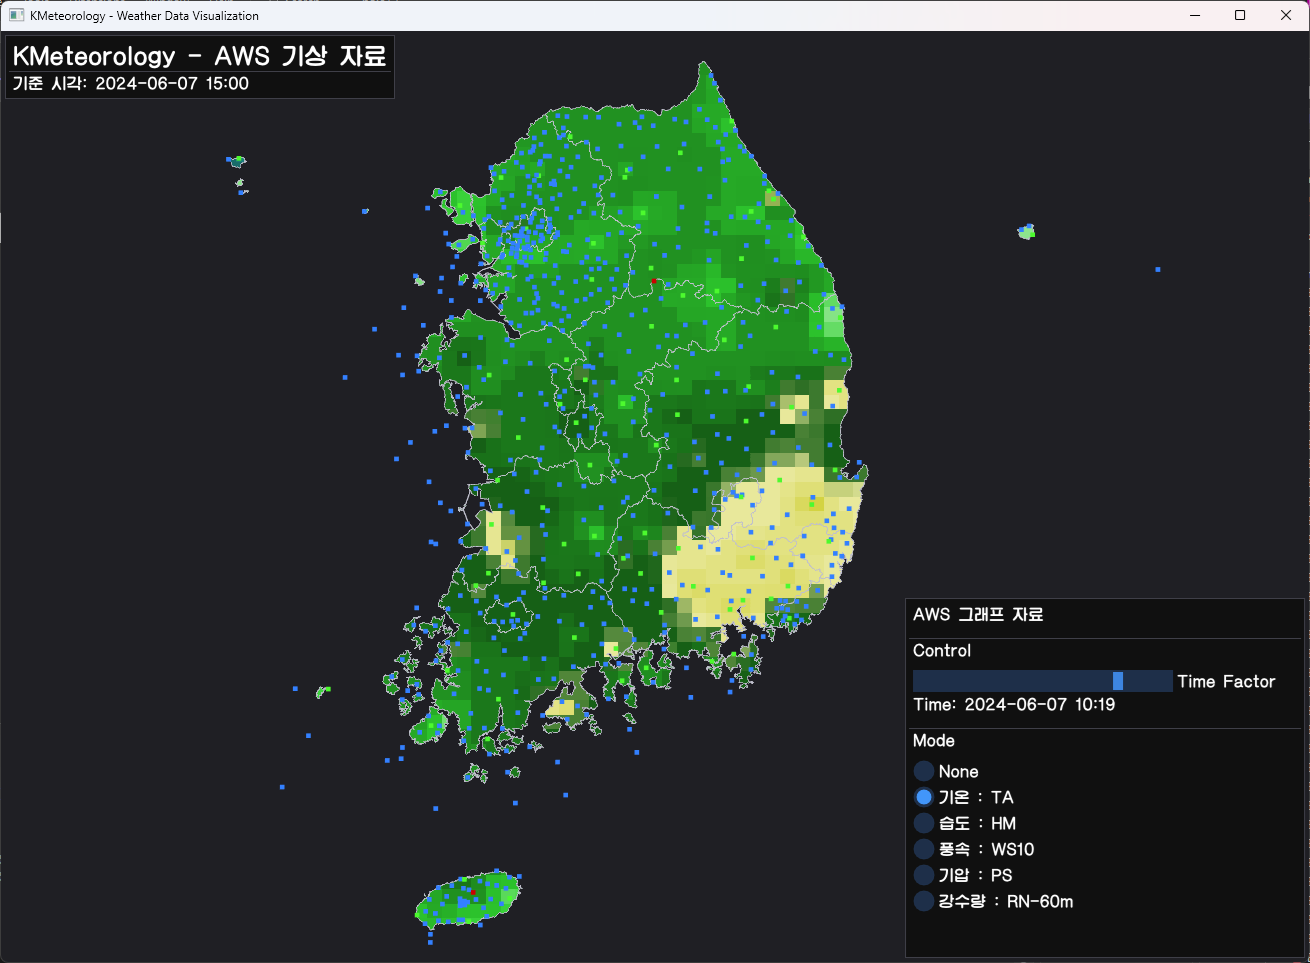
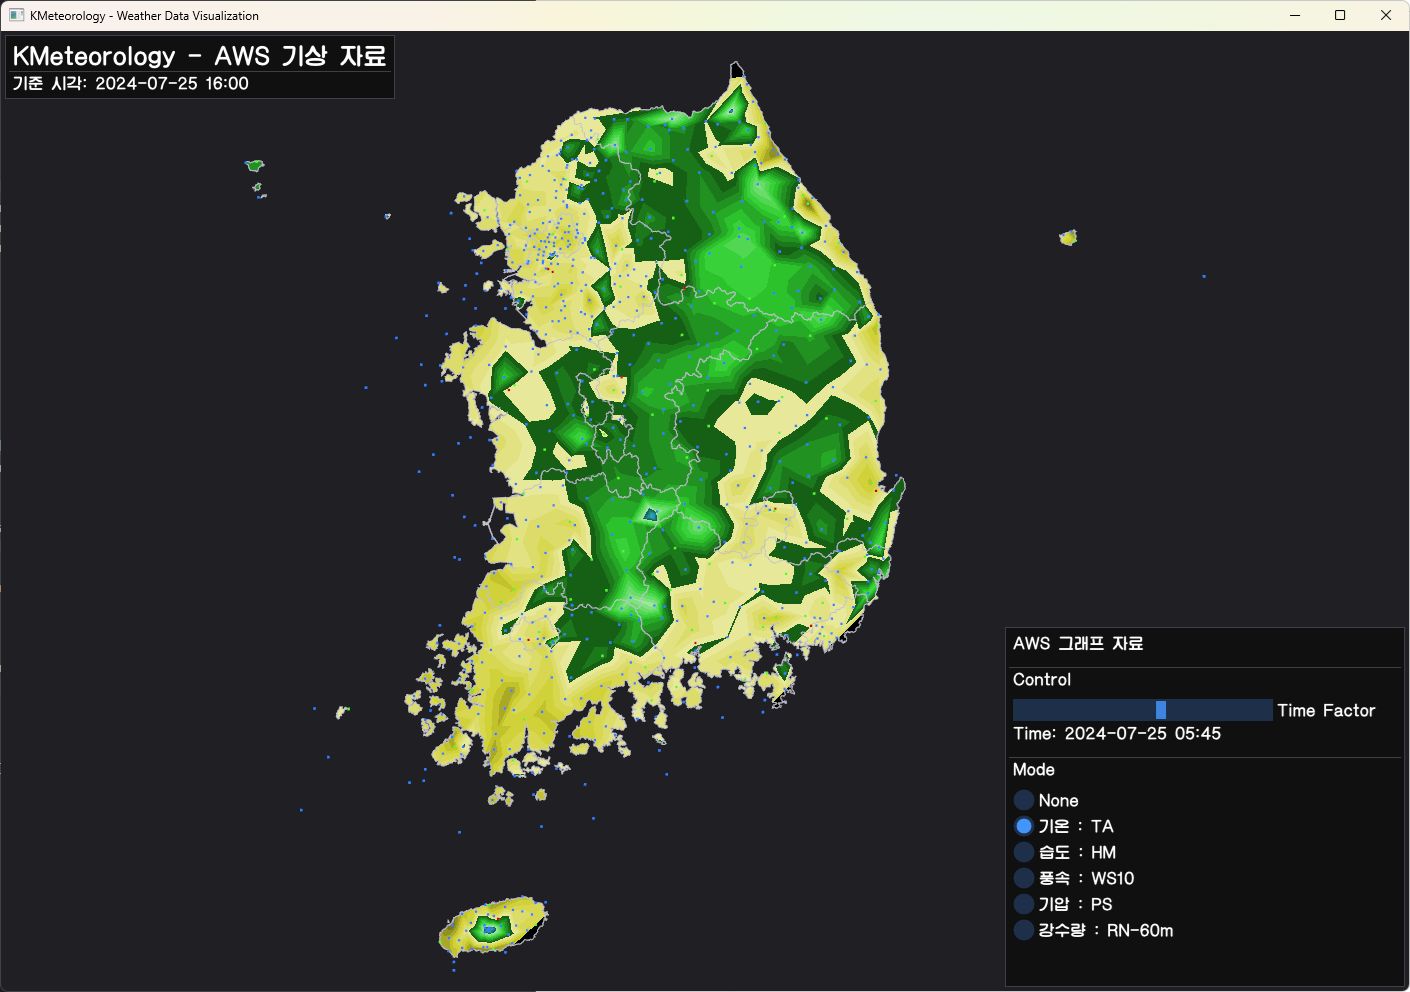
Reconstruct the triangles with available points, update screenshots

diff --git a/main.py b/main.py
@@ -90,23 +90,65 @@ def create_quad():
     return quad
 
 
-triangulation_value_buffer = None
-triangulation_adj = None
+triangulation_buffers = None
 
-def create_triangulation(positions):
-    global triangulation_value_buffer
-    global triangulation_adj
+def create_triangulation(n):
+    global triangulation_buffers
+
+    vao = glGenVertexArrays(1)
+    vbo = glGenBuffers(2)
+    ebo = glGenBuffers(1)
+
+    glBindVertexArray(vao)
+
+    np_positions = np.array([(0, 0) for _ in range(n)], dtype=np.float32)
+    np_values = np.array([0 for _ in range(n)], dtype=np.float32)
+    np_indices = np.array([0 for _ in range(n * 3)], dtype=np.uint32)
+
+    # position
+    glBindBuffer(GL_ARRAY_BUFFER, vbo[0])
+    glBufferData(GL_ARRAY_BUFFER, np_positions.nbytes, np_positions, GL_STATIC_DRAW)
+    glVertexAttribPointer(0, 2, GL_FLOAT, GL_FALSE, 2 * sizeof(GLfloat), ctypes.c_void_p(0))
+    glEnableVertexAttribArray(0)
+
+    # value
+    glBindBuffer(GL_ARRAY_BUFFER, vbo[1])
+    glBufferData(GL_ARRAY_BUFFER, np_values.nbytes, np_values, GL_STATIC_DRAW)
+    glVertexAttribPointer(1, 1, GL_FLOAT, GL_FALSE, sizeof(GLfloat), ctypes.c_void_p(0))
+    glEnableVertexAttribArray(1)
+
+    # indices
+    glBindBuffer(GL_ELEMENT_ARRAY_BUFFER, ebo)
+    glBufferData(GL_ELEMENT_ARRAY_BUFFER, np_indices.nbytes, np_indices, GL_STATIC_DRAW)
+
+    glBindVertexArray(0)
+    glBindBuffer(GL_ARRAY_BUFFER, 0)
+    glBindBuffer(GL_ELEMENT_ARRAY_BUFFER, 0)
+
+    triangulation_buffers = (vao, vbo[0], vbo[1], ebo)
+    return vao
+
+
+def update_trangulation(points, type, t):
+    global triangulation_buffers
+
+    positions = []
+    values = []
+    indices = []
+
+    for p in points.values():
+        value = float('NaN')
+        if p.has_data:
+            value = p.get_slerped_data(type, t)
+        if np.isnan(value):
+            continue
+        positions.append((p.x, p.y))
+        values.append(value)
 
     n = len(positions)
-
     edges = delaunay.delaunay(positions)
-    indices = []
-    triangulation_adj = [[] for _ in range(n)]
 
     for e in edges:
-        triangulation_adj[e.org].append(e.dest)
-        triangulation_adj[e.dest].append(e.org)
-
         if e.data is True:
             continue
 
@@ -146,47 +188,26 @@ def create_triangulation(positions):
             indices.append(i2)
             indices.append(i3)
 
-    vao = glGenVertexArrays(1)
-    vbo = glGenBuffers(2)
-    ebo = glGenBuffers(1)
-
-    glBindVertexArray(vao)
-
     np_positions = np.array(positions, dtype=np.float32)
-    np_values = np.array([0 for _ in range(n)], dtype=np.float32)
+    np_values = np.array(values, dtype=np.float32)
     np_indices = np.array(indices, dtype=np.uint32)
 
-    # position
-    glBindBuffer(GL_ARRAY_BUFFER, vbo[0])
+    glBindVertexArray(triangulation_buffers[0])
+
+    glBindBuffer(GL_ARRAY_BUFFER, triangulation_buffers[1])
     glBufferData(GL_ARRAY_BUFFER, np_positions.nbytes, np_positions, GL_STATIC_DRAW)
-    glVertexAttribPointer(0, 2, GL_FLOAT, GL_FALSE, 2 * sizeof(GLfloat), ctypes.c_void_p(0))
-    glEnableVertexAttribArray(0)
 
-    # value
-    glBindBuffer(GL_ARRAY_BUFFER, vbo[1])
+    glBindBuffer(GL_ARRAY_BUFFER, triangulation_buffers[2])
     glBufferData(GL_ARRAY_BUFFER, np_values.nbytes, np_values, GL_STATIC_DRAW)
-    glVertexAttribPointer(1, 1, GL_FLOAT, GL_FALSE, sizeof(GLfloat), ctypes.c_void_p(0))
-    glEnableVertexAttribArray(1)
 
-    # indices
-    glBindBuffer(GL_ELEMENT_ARRAY_BUFFER, ebo)
+    glBindBuffer(GL_ELEMENT_ARRAY_BUFFER, triangulation_buffers[3])
     glBufferData(GL_ELEMENT_ARRAY_BUFFER, np_indices.nbytes, np_indices, GL_STATIC_DRAW)
 
     glBindVertexArray(0)
     glBindBuffer(GL_ARRAY_BUFFER, 0)
     glBindBuffer(GL_ELEMENT_ARRAY_BUFFER, 0)
 
-    triangulation_value_buffer = vbo[1]
-    return vao, len(indices)
-
-
-def update_trangulation(values):
-    global triangulation_value_buffer
-
-    glBindBuffer(GL_ARRAY_BUFFER, triangulation_value_buffer)
-    glBufferSubData(GL_ARRAY_BUFFER, 0, len(values) * sizeof(GLfloat), np.array(values, dtype=np.float32))
-    glBindBuffer(GL_ARRAY_BUFFER, 0)
-
+    return len(indices)
 
 texture = None
 tw, th = 960, 960
@@ -319,7 +340,8 @@ def main():
     elapsed_time = time.time()
 
     territory_mesh = territory_parser.TerritoryMesh("Resources/territory.svg")
-    triangulation_mesh, triangulation_indices_count = create_triangulation([(p.x, p.y) for p in points.values()])
+    triangulation_mesh = create_triangulation(len(points))
+    triangulation_indices_count = update_trangulation(points, selected_type, time_factor * 23)
     quad_mesh = create_quad()
 
     glUseProgram(0)
@@ -371,8 +393,6 @@ def main():
         projection_matrix = glm.ortho(-aspect_ratio * camera_size, aspect_ratio * camera_size, -camera_size, camera_size, -1000.0, 1000.0)
         viewprojinv_matrix = glm.inverse(projection_matrix * view_matrix)
 
-        glPolygonMode(GL_FRONT_AND_BACK, GL_FILL)
-
         # update global uniform buffer
         glBindBuffer(GL_UNIFORM_BUFFER, guid)
         glBufferSubData(GL_UNIFORM_BUFFER, 0, 64, glm.value_ptr(view_matrix))
@@ -381,6 +401,8 @@ def main():
         glBindBuffer(GL_UNIFORM_BUFFER, 0)
 
         # First Pass
+        glPolygonMode(GL_FRONT_AND_BACK, GL_FILL)
+
         glBindFramebuffer(GL_FRAMEBUFFER, fbo)
         glBindTexture(GL_TEXTURE_2D, palette[distribution_types[selected_type]['palette']])
 
@@ -395,22 +417,6 @@ def main():
         model_location = glGetUniformLocation(shaders["HEATMAP"].active_shader, "u_PointValueRange")
         glUniform2f(model_location, *distribution_types[selected_type]['range'])
 
-        arr = []
-        pv = list(points.values())
-        t = time_factor * 23
-        for i in range(len(pv)):
-            value = float('NaN')
-            if pv[i].has_data:
-                value = pv[i].get_slerped_data(selected_type, t)
-            if np.isnan(value):
-                for adj in triangulation_adj[i]:
-                    value = pv[adj].get_slerped_data(selected_type, t)
-                    if not np.isnan(value):
-                        break
-            arr.append(value)
-
-        update_trangulation(arr)
-
         model_location = glGetUniformLocation(shader_program.active_shader, "model_Transform")
         glUniformMatrix4fv(model_location, 1, GL_FALSE, glm.value_ptr(world_matrix))
 
@@ -418,6 +424,8 @@ def main():
         glDrawElements(GL_TRIANGLES, triangulation_indices_count, GL_UNSIGNED_INT, None)
 
         # Second Pass
+        glPolygonMode(GL_FRONT_AND_BACK, GL_FILL)
+
         glBindFramebuffer(GL_FRAMEBUFFER, 0)
         glBindTexture(GL_TEXTURE_2D, texture)
 
@@ -534,6 +542,7 @@ def main():
         imgui.text('Control')
         imgui.spacing()
         imgui.spacing()
+        last_time_factor = time_factor
         time_factor = imgui.slider_float('Time Factor', time_factor, 0, 1, '')[1]
         hours_delta = 24 * (1 - time_factor)
         lerped_time = weather_data.time_criteria - datetime.timedelta(hours=hours_delta)
@@ -548,6 +557,7 @@ def main():
         imgui.spacing()
         imgui.spacing()
         clicked = imgui.radio_button('None', not toggle_distribution)
+        last_selected_type = selected_type
         if clicked:
             toggle_distribution = False
         for param in distribution_types.values():
@@ -556,6 +566,9 @@ def main():
                 toggle_distribution = True
                 selected_type = param['id']
         imgui.end()
+
+        if last_time_factor != time_factor or last_selected_type != selected_type:
+            triangulation_indices_count = update_trangulation(points, selected_type, time_factor * 23)
 
         imgui.pop_font()
         imgui.render()
